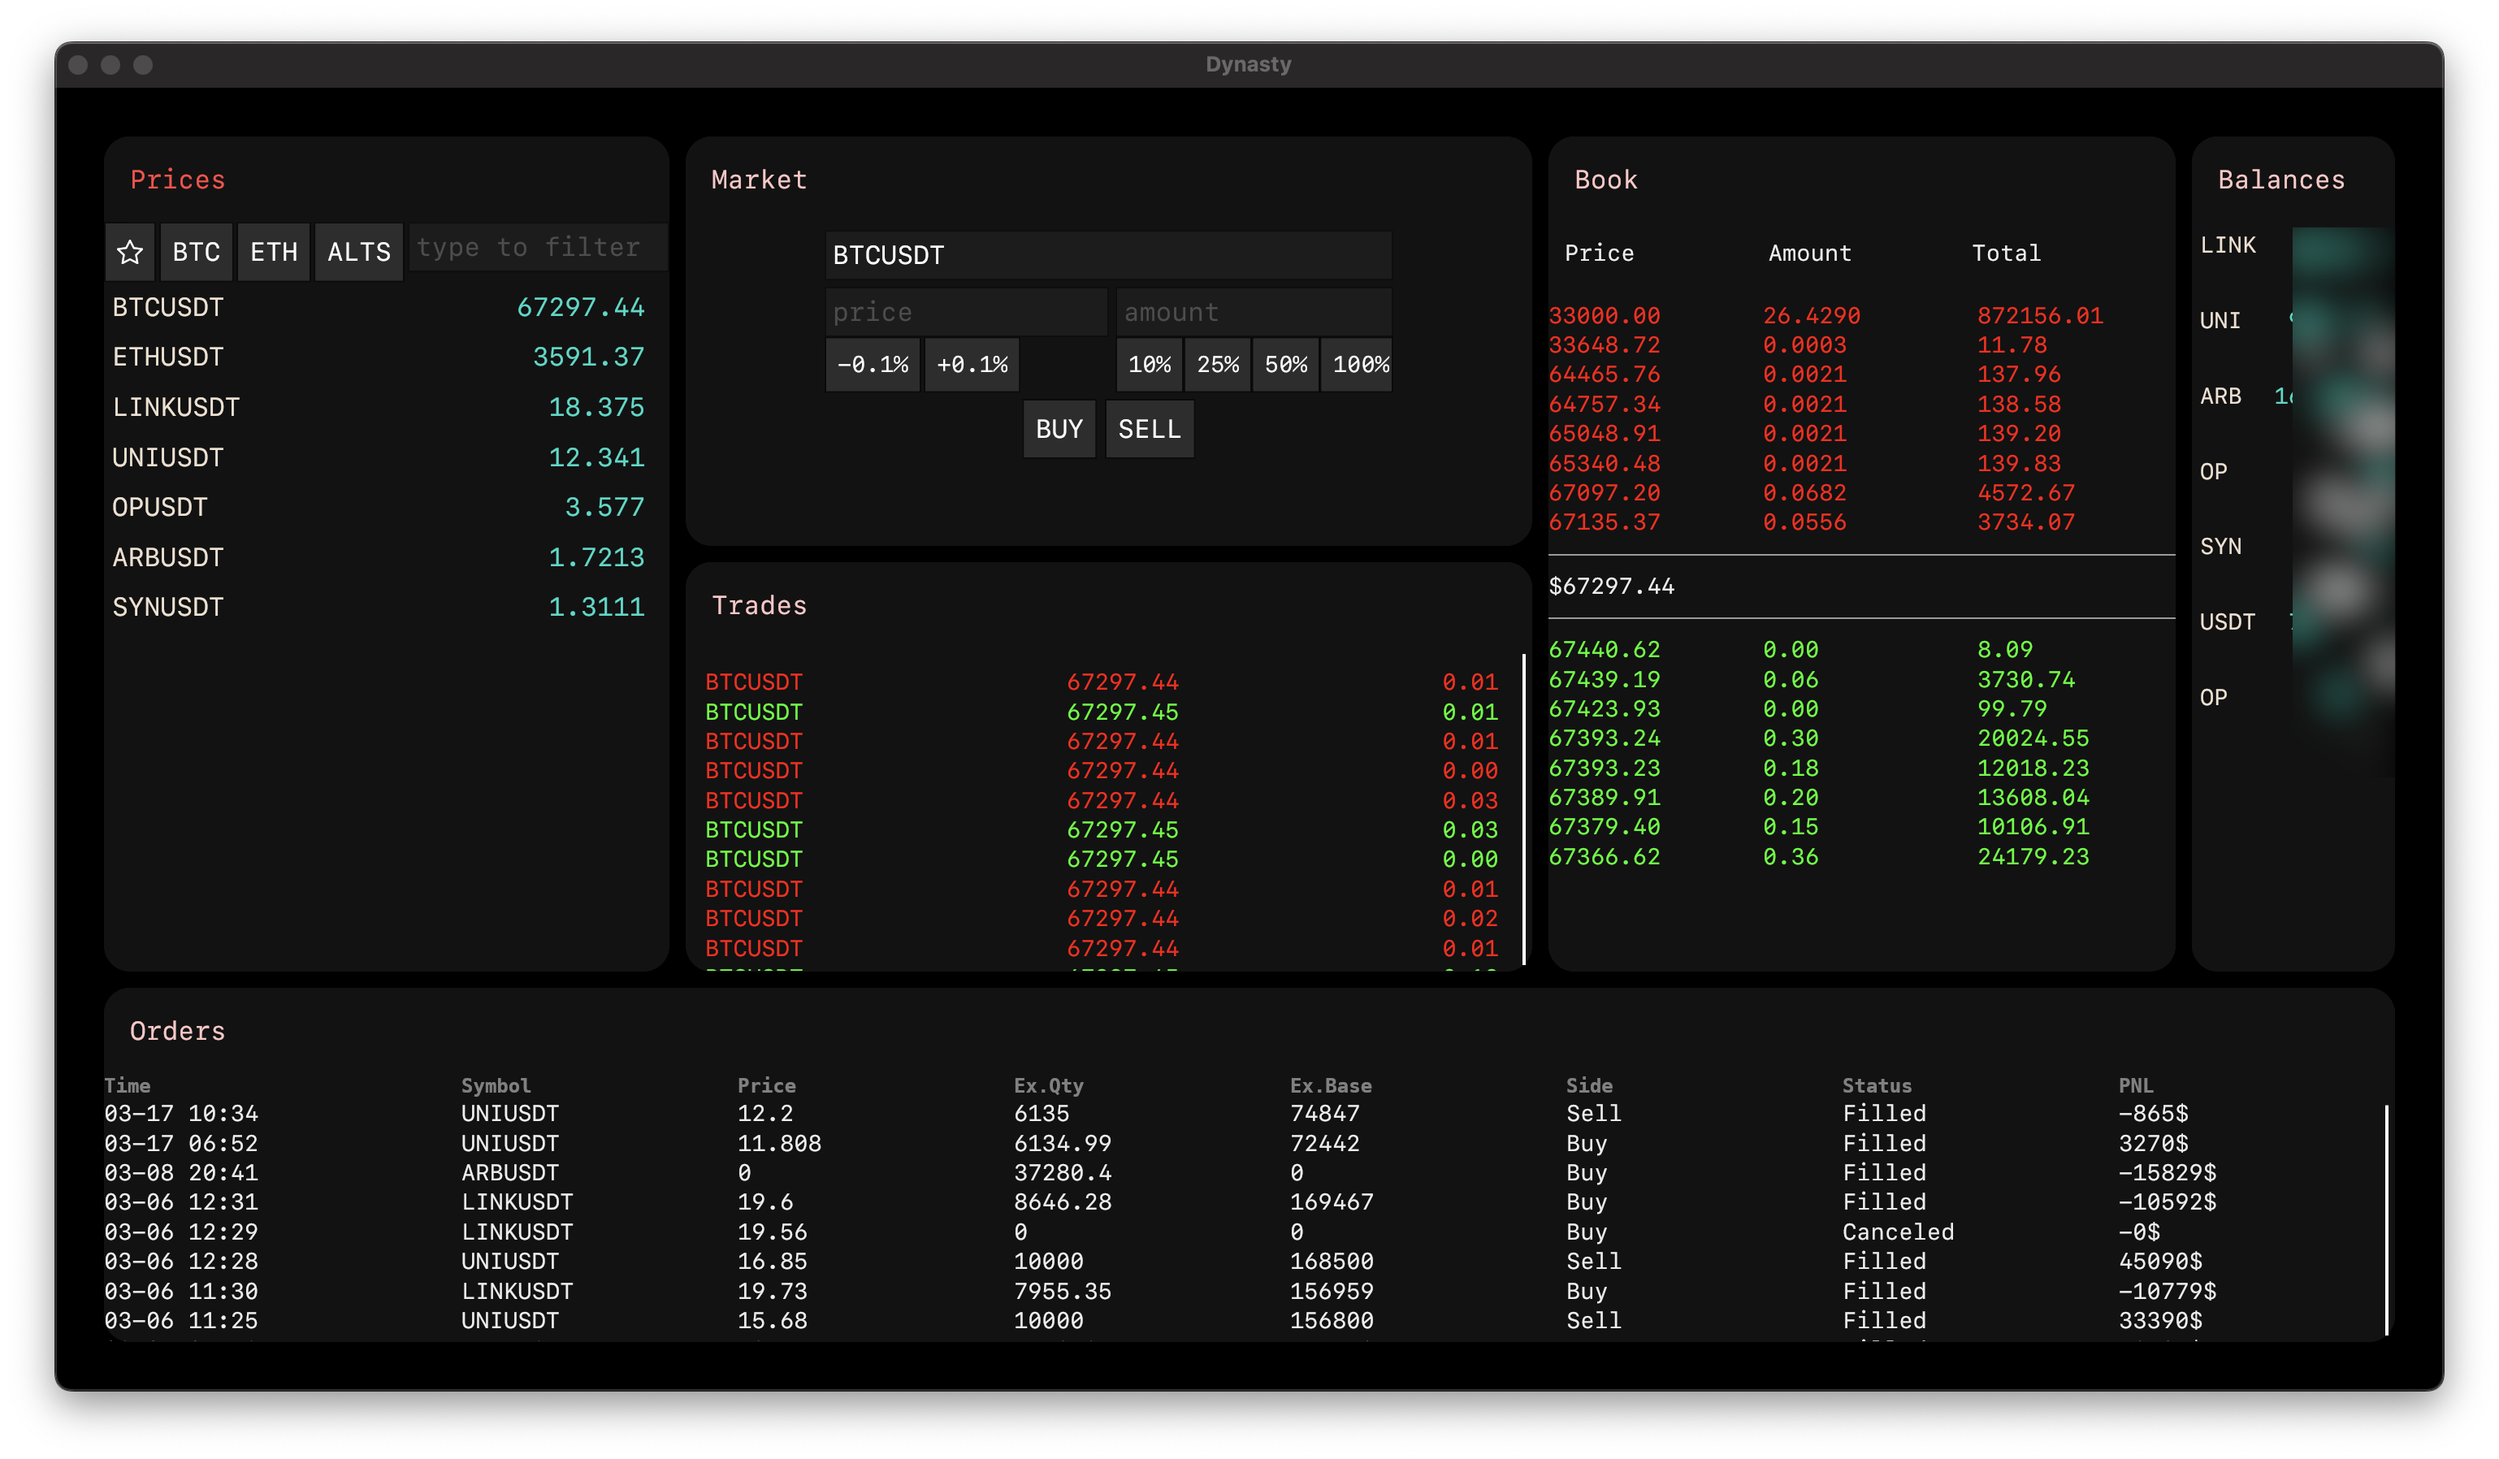
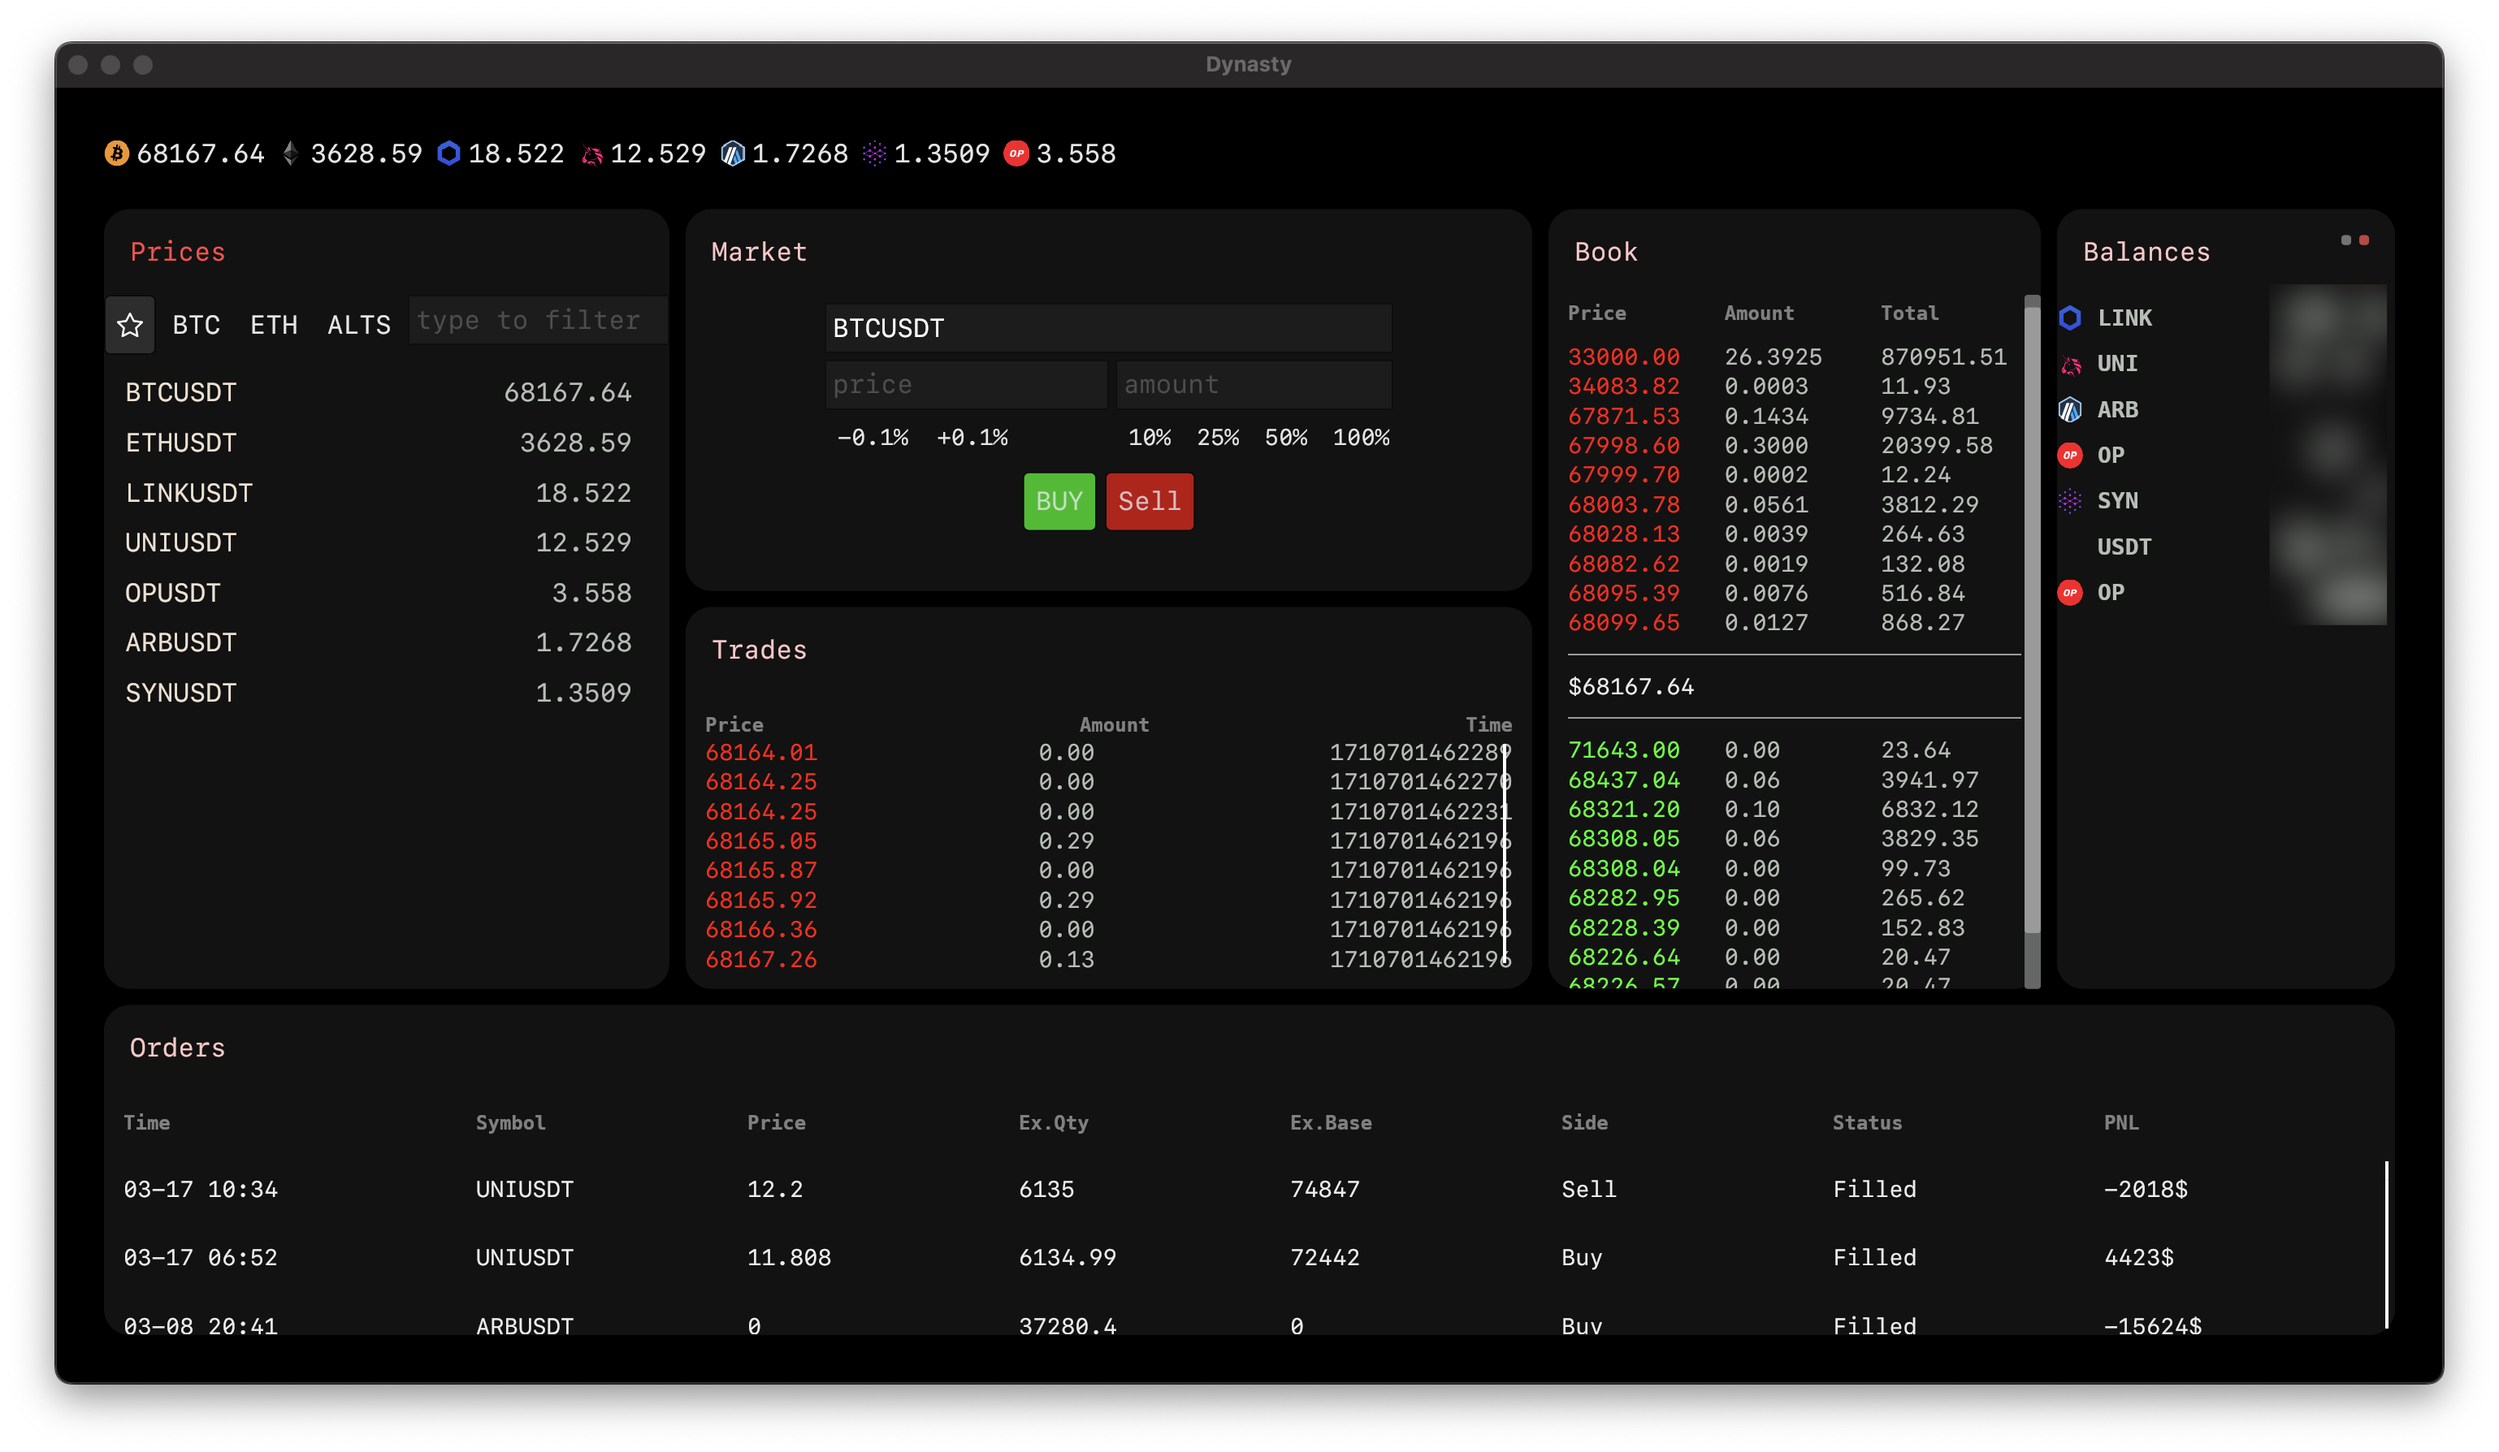
screenshots

diff --git a/README.md b/README.md
@@ -2,7 +2,9 @@
 A cross-platform native desktop application for trading cryptocurrency. Only Binance and Spot Trading are supported for now. The tool is made for my personal use, but feature requests and/or issues are welcome.
 To use set DYN_PUB and DYN_SEC environment variables to your Binance API keys respectively.
 
-![CleanShot 2023-09-16 at 20 04 26](https://github.com/x86y/dynasty/assets/68605763/881a390d-62e2-443e-823e-fd4d8d6db3fc)
-
 ## updated visuals, no gif yet:
 ![CleanShot 2023-09-16 at 20 04 26](assets/new.png)
+
+## old ui, animated
+![CleanShot 2023-09-16 at 20 04 26](https://github.com/x86y/dynasty/assets/68605763/881a390d-62e2-443e-823e-fd4d8d6db3fc)
+
